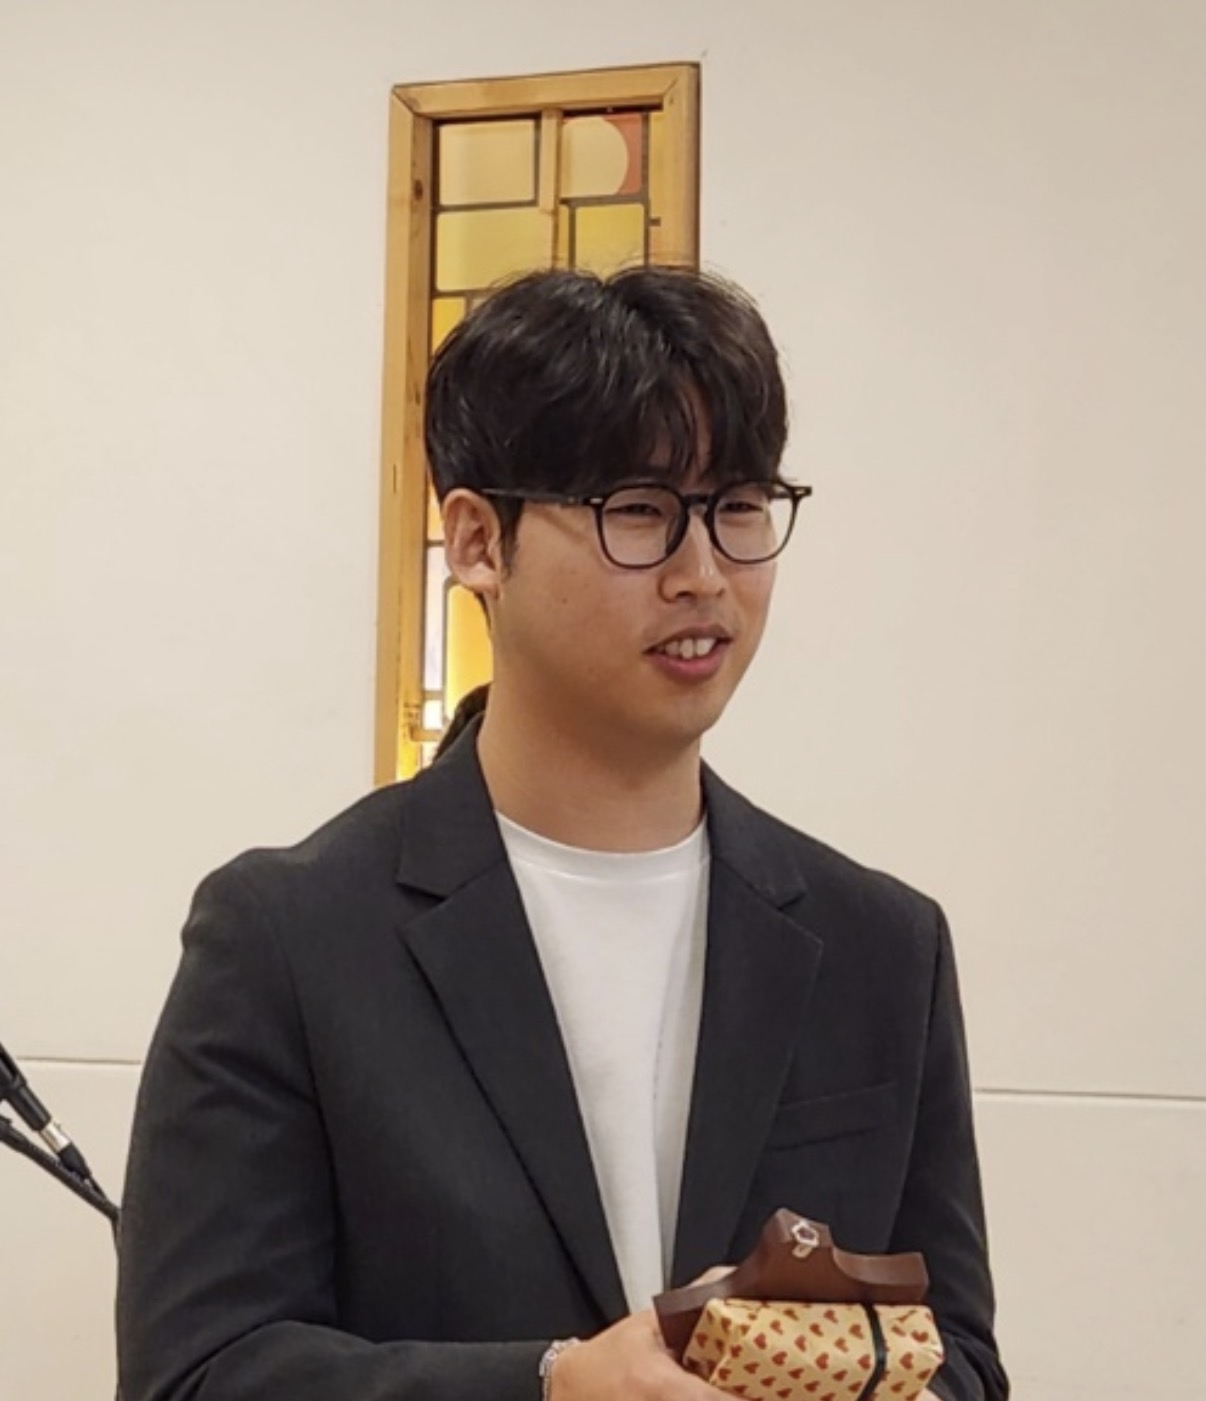
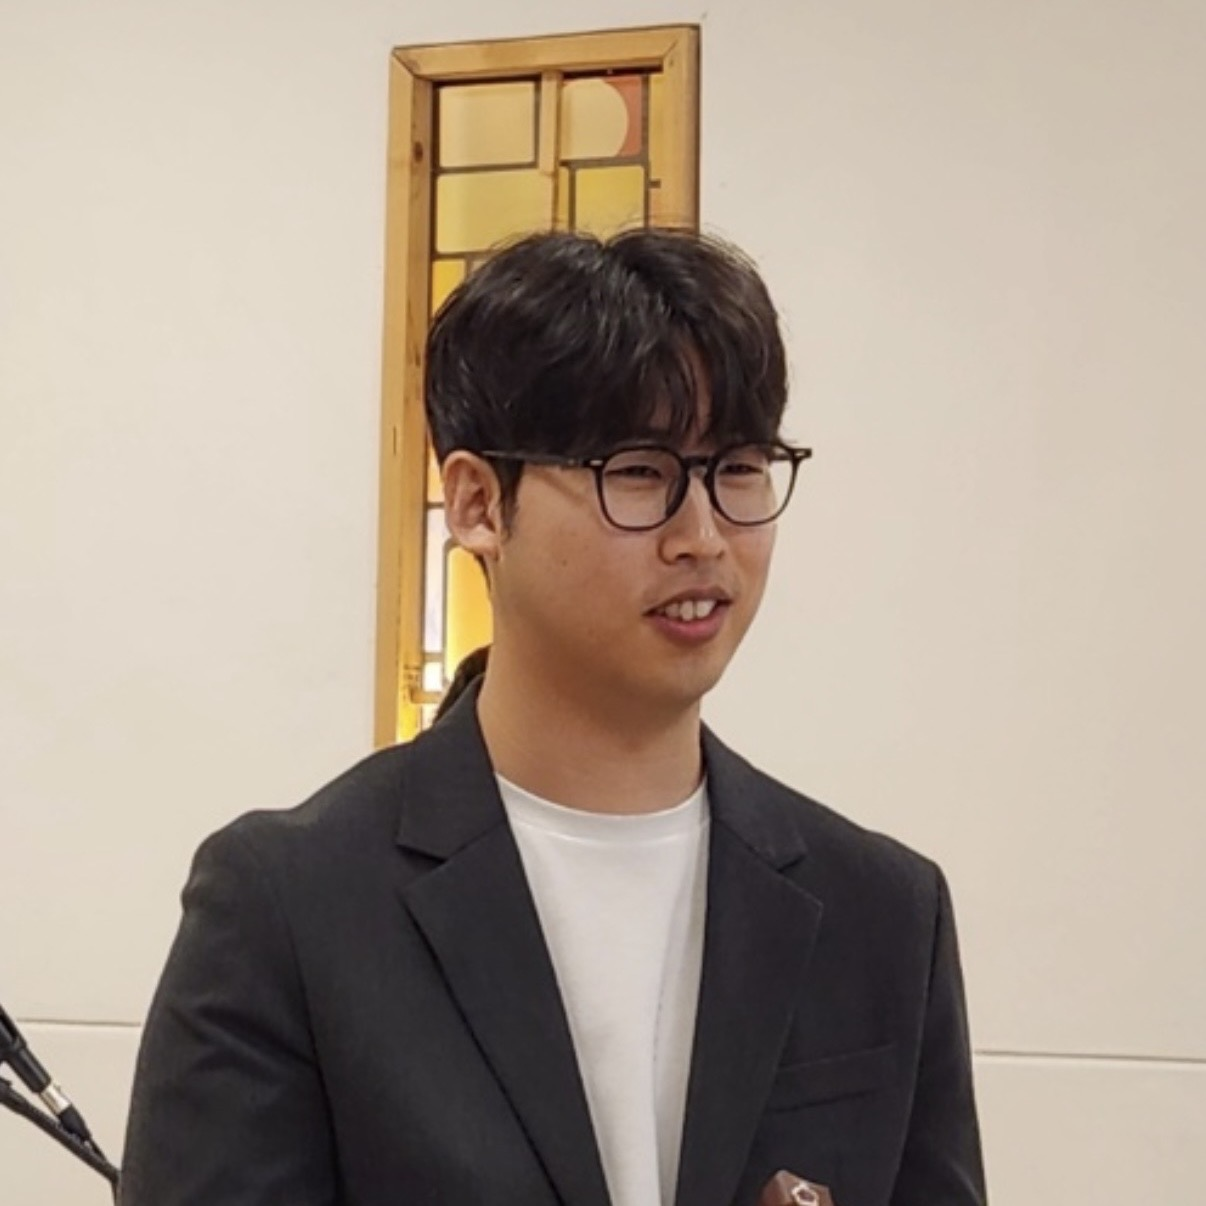
Update photo

diff --git a/_pages/about.md b/_pages/about.md
@@ -7,7 +7,7 @@ subtitle: MASc student, <a href="https://www.ece.utoronto.ca/">ECE, University o
 profile:
   align: right
   # image: Memoji.jpg
-  image: Profile.jpg
+  image: profile.jpg
   image_circular: false # crops the image to make it circular
   more_info: >
     <p>Engineering Annex, Room 306, 11 King's College Road </p>
